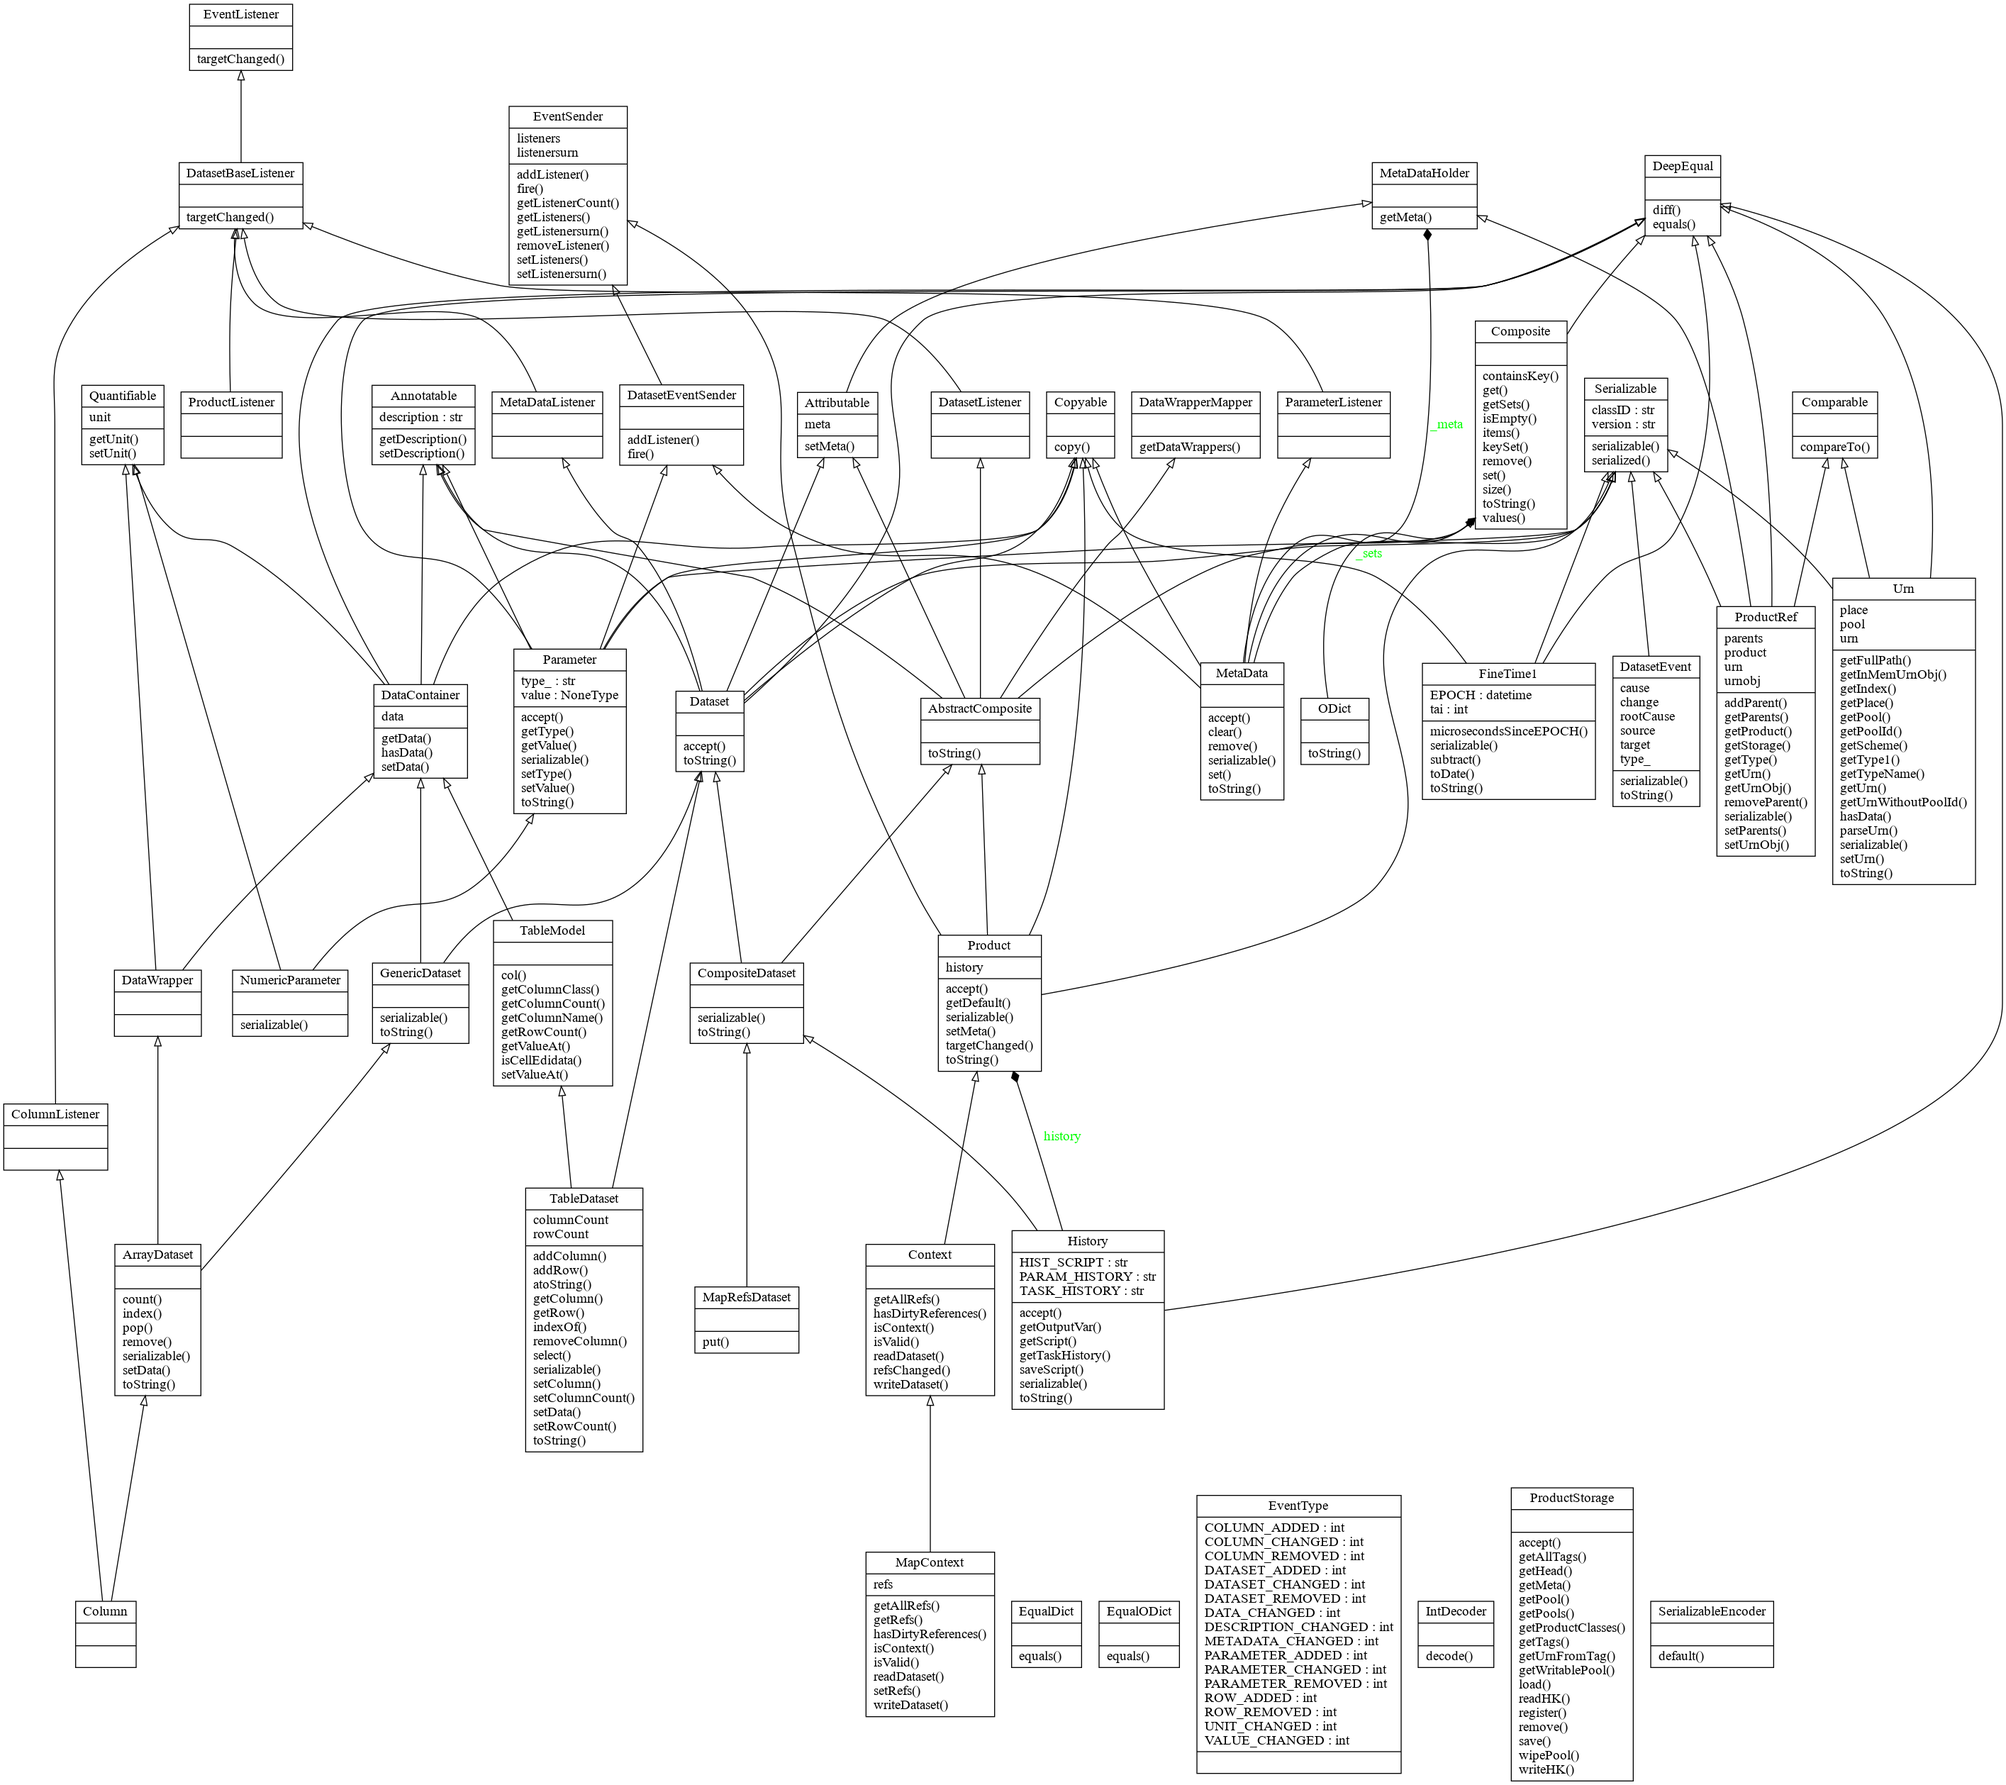
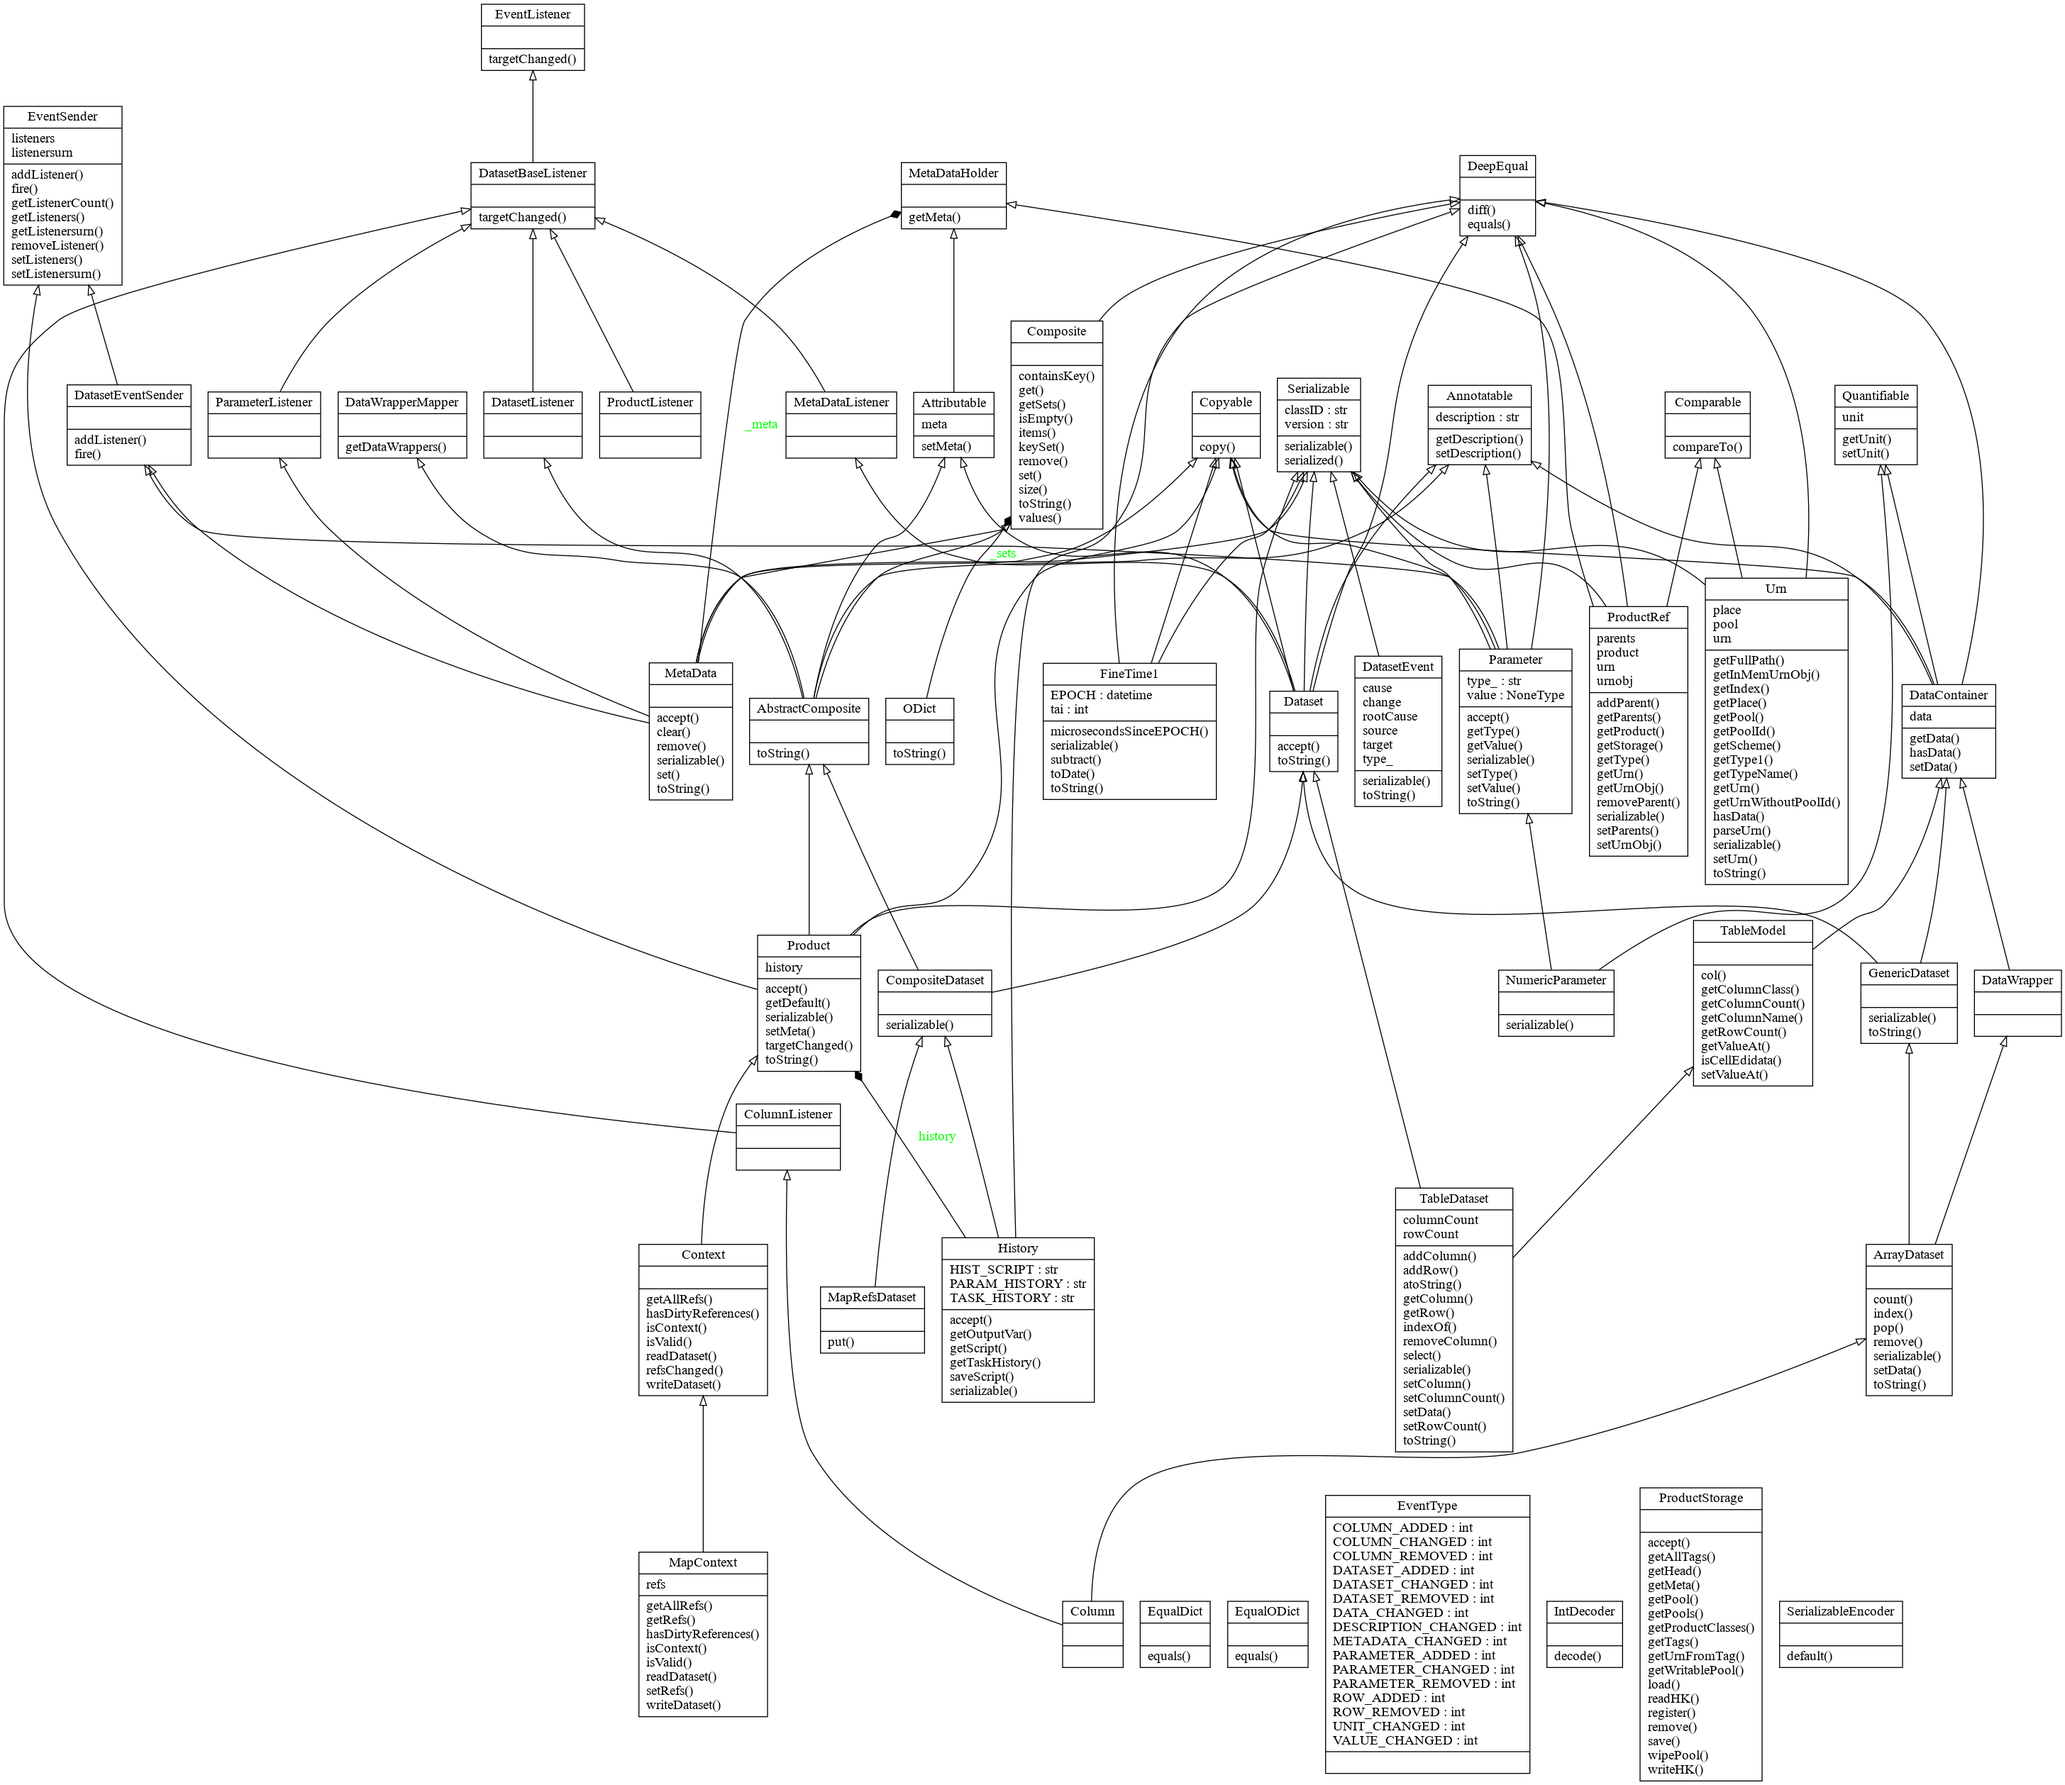
tabledataset setdata improvement

diff --git a/tests/test_dataset.py b/tests/test_dataset.py
@@ -780,54 +780,69 @@ def test_TableDataset():
     except Exception as e:
         assert issubclass(e.__class__, TypeError)
     assert t == 5
-    # data is a sequence
+    # setData format 1: data is a sequence of dict
     a1 = [dict(name='col1', column=Column(data=[1, 4.4, 5.4E3], unit='eV')),
           dict(name='col2', column=Column(data=[0, 43.2, 2E3], unit='cnt'))
           ]
+    # 2: another syntax
+    # same as last but using different dict syntax
+    # = [{'name': 'col1', 'column': Column(data=[1, 4.4, 5.4E3], unit='eV')},
+    #    {'name': 'col2', 'column': Column(data=[0, 43.2, 2E3], unit='cnt')}]
     v = TableDataset(data=a1)  # inherited from DataWrapper
     assert v.getColumnCount() == 2
     assert v.getColumnName(0) == 'col1'
     assert v.getValueAt(rowIndex=1, columnIndex=1) == 43.2
-    # other syntax
-    # same as last but using different dict syntax
-    b1 = [{'name': 'col1', 'column': Column(data=[1, 4.4, 5.4E3], unit='eV')},
-          {'name': 'col2', 'column': Column(data=[0, 43.2, 2E3], unit='cnt')}
-          ]
-    v1 = TableDataset()
-    v1.data = b1
-    assert v == v1
-    # list of tupllles of name, column
-    b2 = [('col1', Column(data=[1, 4.4, 5.4E3], unit='eV')),
-          ('col2', Column(data=[0, 43.2, 2E3], unit='cnt'))
-          ]
-    v2 = TableDataset(data=b2)  # inherited from DataWrapper
-    assert v == v2
-    # *Quickest?* list of tuples that do not need to use Column
-    v3 = TableDataset(data=[('col1', [1, 4.4, 5.4E3], 'eV'),
-                            ('col2', [0, 43.2, 2E3], 'cnt')
-                            ])
-    assert v == v3
-    # data is a mapping
+    # 3: data is a mapping
     v4 = TableDataset(data=dict(col1=Column(data=[1, 4.4, 5.4E3], unit='eV'),
                                 col2=Column(data=[0, 43.2, 2E3], unit='cnt'))
                       )
     assert v == v4
 
+    # 3: *Quickest?* list of tuples that do not need to use Column
+    v3 = TableDataset(data=[('col1', [1, 4.4, 5.4E3], 'eV'),
+                            ('col2', [0, 43.2, 2E3], 'cnt')
+                            ])
+    assert v == v3
+
     # access
-    # column
-    c = Column()
-    v['col3'] = c
-    v['col4'] = Column([2, 3])
-    # unit
-    assert v4['col1'].unit == 'eV'
-    # indexOf
-    assert v.indexOf('col3') == v.indexOf(c)
+    # column set / get
+    u = TableDataset()
+    c = Column([1, 4], 'sec')
+    u.addColumn('col3', c)
+    # for non-existing names set is addColum.
+    u['col4'] = Column([2, 3], 'eu')
+    assert u['col4'][0] == 2
+    # replace column for existing names
+    u['col4'] = c
+    assert u['col4'][0] == 1
+    # unit access
+    assert u['col4'].unit == 'sec'
+    # with indexOf
+    assert u.indexOf('col3') == u.indexOf(c)
     # set cell value
-    v.setValueAt(aValue=42, rowIndex=1, columnIndex=1)
-    assert v.getValueAt(rowIndex=1, columnIndex=1) == 42
+    u.setValueAt(aValue=42, rowIndex=1, columnIndex=1)
+    assert u.getValueAt(rowIndex=1, columnIndex=1) == 42
+
+    # replace whole table. see constructor examples
+    u.data = dict(n1=Column([1, 4.4, 5.4E3], 'ee'),
+                  n2=Column([0, 43.2, 2E3], 'cnt'))
+    # col3,4 are gone
+    assert list(u.data.keys()) == ['n1', 'n2']
+    # But if providing a list of list of data only for the existing columns
+    u.data = [[0, 9876, 66]]
+    assert u['n1'][1] == 9876
+    assert u['n1'].unit == 'ee'
+    # list of list can go past current number of columns
+    h = [6, 7, 8]
+    u.data = [[0, 9876, 66], [1, 2, 3], h]
+    assert u['n1'][1] == 9876
+    assert u['n1'].unit == 'ee'
+    # genric col[index] names and None unit are given for the added columns
+    assert u['col3'][1] == 7  # index counts from 1 !
+    assert u['col3'].unit is None
 
     # in
-    assert 'col3' in v
+    assert 'col3' in u
 
     # toString()
     s = ndlist(2, 3, 4, 5)
@@ -836,7 +851,7 @@ def test_TableDataset():
     x[0][1][1] = [0, 0, 0, 1, 0]
     x[0][1][2] = [5, 4, 3, 2, 1]
     x[0][1][3] = [0, 0, 0, 3, 0]
-    ts = v2.toString()
+    ts = v3.toString()
     # print(ts)
     assert ts == \
         """# TableDataset
@@ -852,8 +867,8 @@ def test_TableDataset():
 
 """
 
-    checkjson(v)
-    checkgeneral(v)
+    checkjson(u)
+    checkgeneral(u)
 
     # doc cases
     # creation:

diff --git a/dataset/dataset.py b/dataset/dataset.py
@@ -289,34 +289,46 @@ class TableDataset(Dataset, TableModel):
         super().__init__(**kwds)  # initialize data, meta, unit
 
     def setData(self, data):
-        """ set name-column pairs if any of ['name'], .name,
-        .__next__() is valid for each item in data
+        """ sets name-column pairs if any of ['name'], .name,
+        .__next__() is valid for each item in data. Existing data will be discarded except when the provided data is a list of lists, where existing column names and units will remain but data replaced, and extra data items will form new columns named 'col[index]' (index counting from 1) with unit None.
         """
         # logging.debug(data.__class__)
         #raise Exception()
         if data is not None:
             # d will be {<name1 str>:<column1 Column>, ... }
             d = ODict()
+            replace = True
             if issubclass(data.__class__, Sequence):
+                try:
+                    curd = self.getData()
+                except Exception:
+                    curd = None
+                curdk = list(self.getData().keys()) if curd else []
+                ind = 0
                 for x in data:
                     if 'name' in x and 'column' in x:
                         d[x['name']] = x['column']
                     elif hasattr(x, 'name') and hasattr('column', x):
                         d[x.name] = x.column
+                    elif issubclass(x.__class__, list):
+                        if curd is None:
+                            d['col' + str(ind + 1)] = Column(data=x, unit=None)
+                        elif len(curd) <= ind:
+                            curd['col' + str(ind + 1)
+                                 ] = Column(data=x, unit=None)
+                        else:
+                            curd[curdk[ind]].data = x
+                            replace = False
                     elif issubclass(x.__class__, tuple):
-                        if len(x) == 2:
-                            if issubclass(x[1].__class__, Column):
-                                d[x[0]] = x[1]
-                            else:
-                                d[x[0]] = Column(data=x[1], unit='')
-                        elif len(x) == 3:
+                        if len(x) == 3:
                             d[x[0]] = Column(data=x[1], unit=x[2])
                         else:
                             raise ValueError(
-                                'column tuples must be (str, Column), (str, List), or (str, List, str)')
+                                'column tuples must be  (str, List), or (str, List, str)')
                     else:
                         raise ValueError(
                             'cannot extract name and column at list member ' + str(x))
+                    ind += 1
             elif issubclass(data.__class__, Mapping):
                 for k, v in data.items():
                     d[k] = v
@@ -324,7 +336,8 @@ class TableDataset(Dataset, TableModel):
                 raise TypeError('must be a Sequence or a Mapping')
 
             # logging.debug(d)
-            super().setData(d)
+            if replace:
+                super().setData(d)
         else:
             super().setData(ODict())
 

diff --git a/pns/server.py b/pns/server.py
@@ -363,9 +363,14 @@ def run(d, processinput=None, processoutput=None):
         if processinput is not None:
             processinput(d, indata)
         else:
-            # for i in indata.inputs:
-            #    if indata
-            defaultprocessinput({})  # pc['paths']['inputfiles']
+            r1 = {'contents': indata['table'].data.toString(),
+                  'mode': 'w+'}
+            p = indata.meta['pointing'].data
+            r2 = {'contents': str(p[0]) + ' ' + str(p[1]),
+                  'mode': 'w+'}
+            data = {pc['paths']['inputfiles'][0]: r1,
+                    pc['paths']['inputfiles'][1]: r2}
+            defaultprocessinput(data)
     except Exception as e:
         return -1,  str(e) + trbk(e)
 

diff --git a/dataset/datawrapper.py b/dataset/datawrapper.py
@@ -50,7 +50,7 @@ class DataContainer(Annotatable, Quantifiable, Copyable, DeepEqual):
             (str(self.description), str(self.getData()))
 
 
-class DataWrapper(DataContainer, Quantifiable):
+class DataWrapper(DataContainer):
     """ A DataWrapper is a composite of data, unit and description.
     mh: note that all data are in the same unit. There is no metadata.
     Implemented from AbstractDataWrapper.
